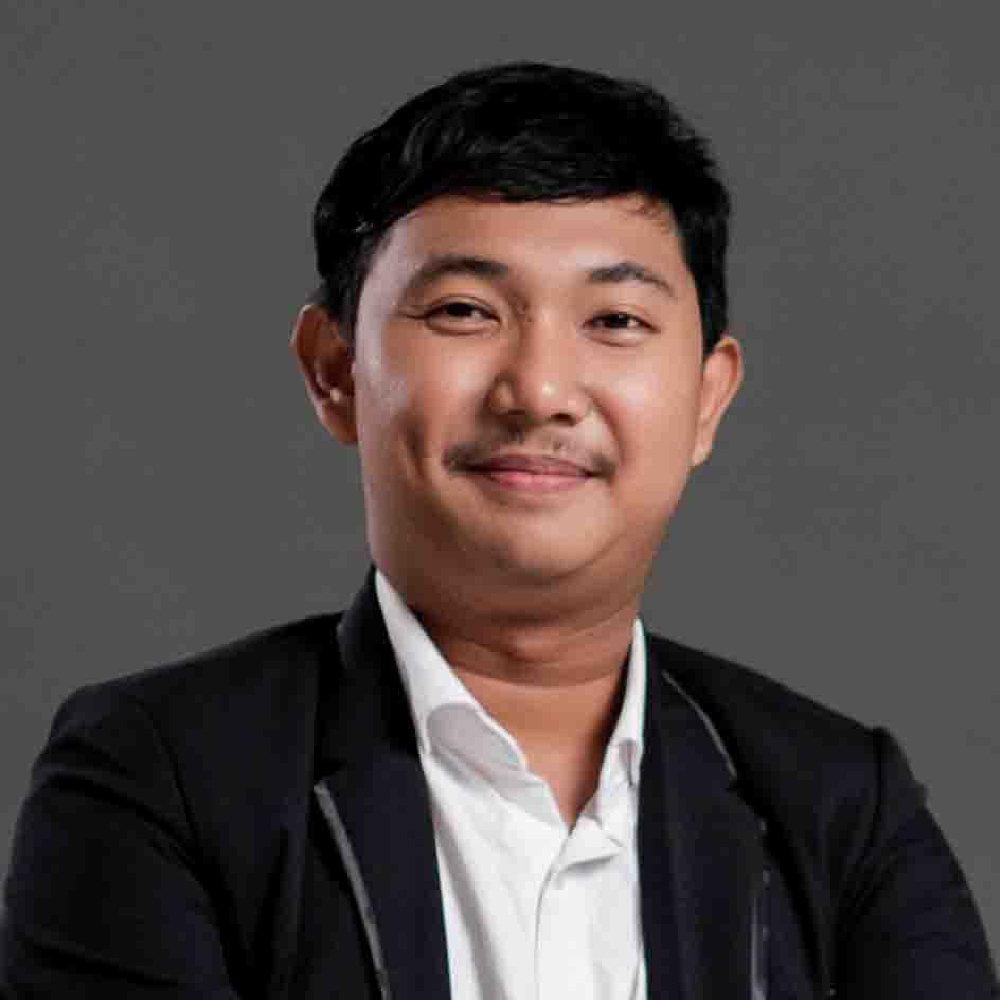
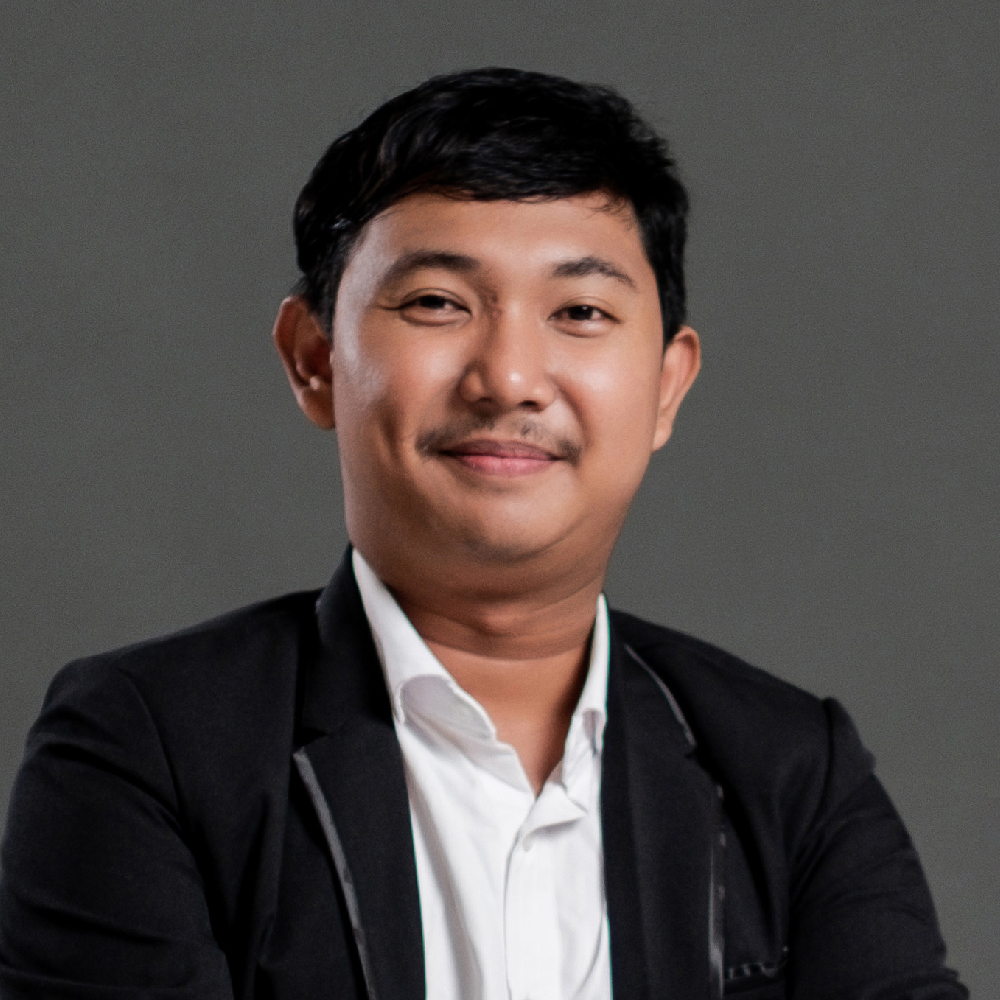
ganti foto doang

diff --git a/script.js b/script.js
@@ -623,7 +623,7 @@ function render() {
 
   // Profile photo
   document.getElementById('profile-photo').src = p === 'da'
-    ? 'img/Pas-Foto-DA.jpg'
+    ? 'img/Pas-Foto-QA.jpg'
     : 'img/Pas-Foto-QA.jpg';
 }
 
